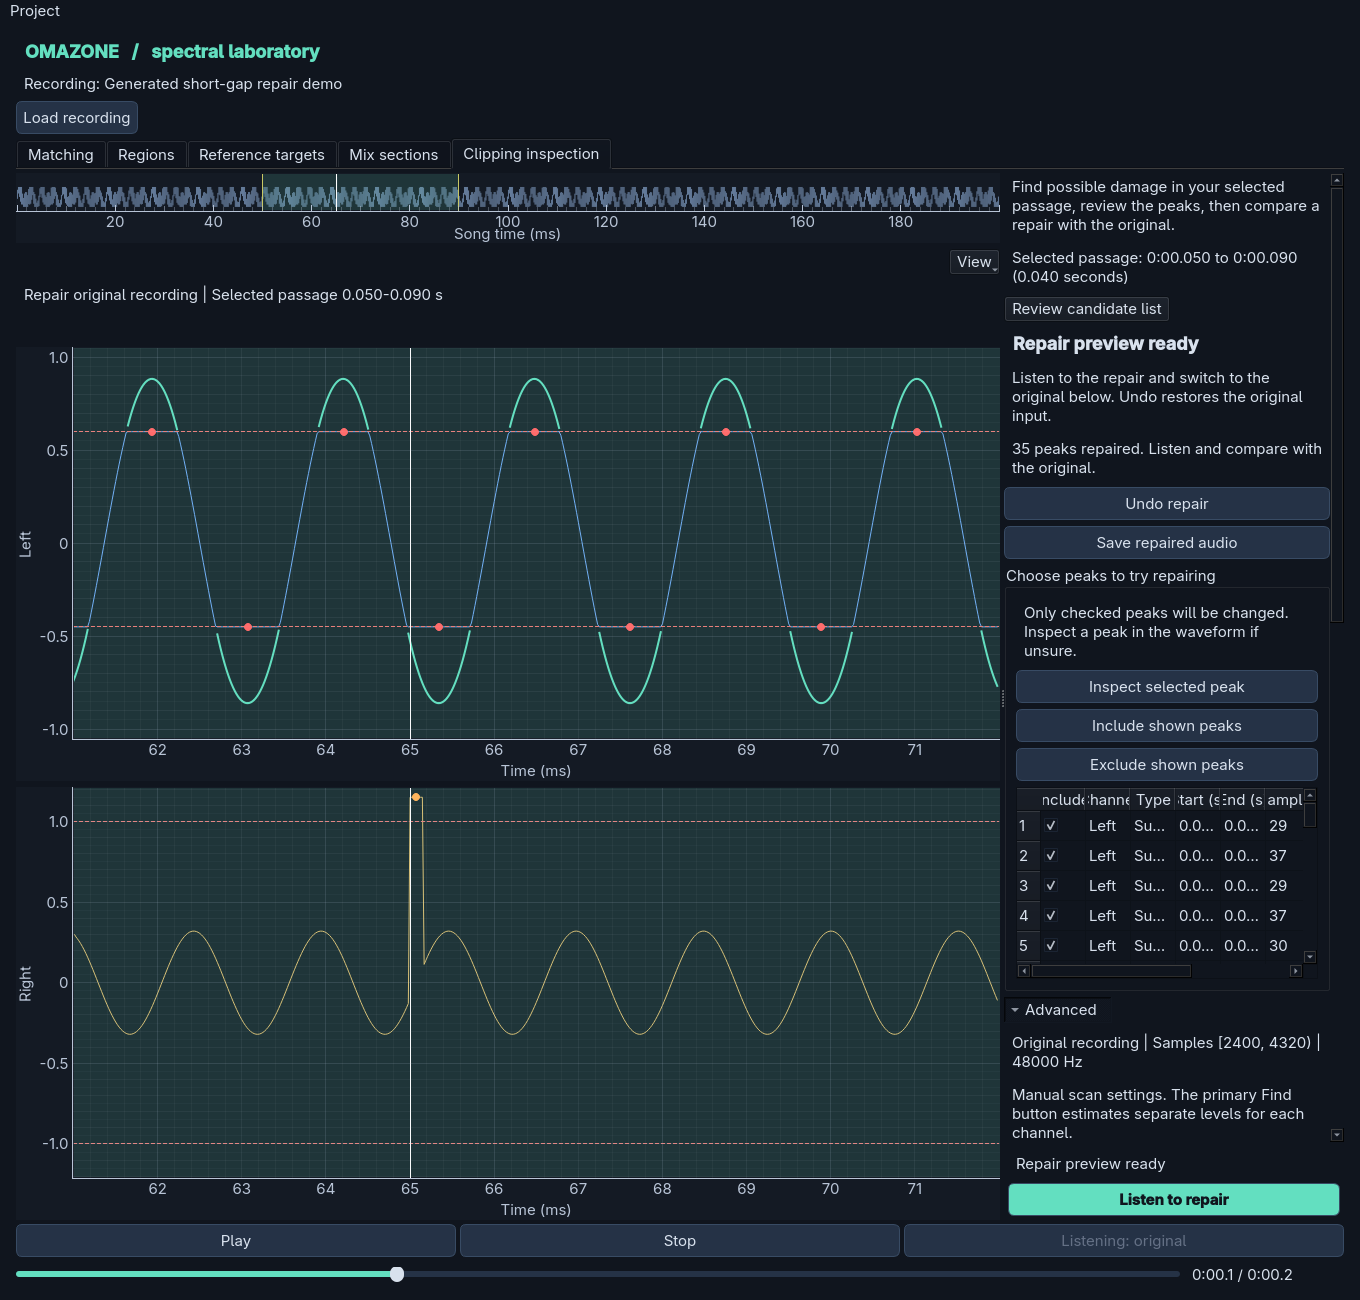
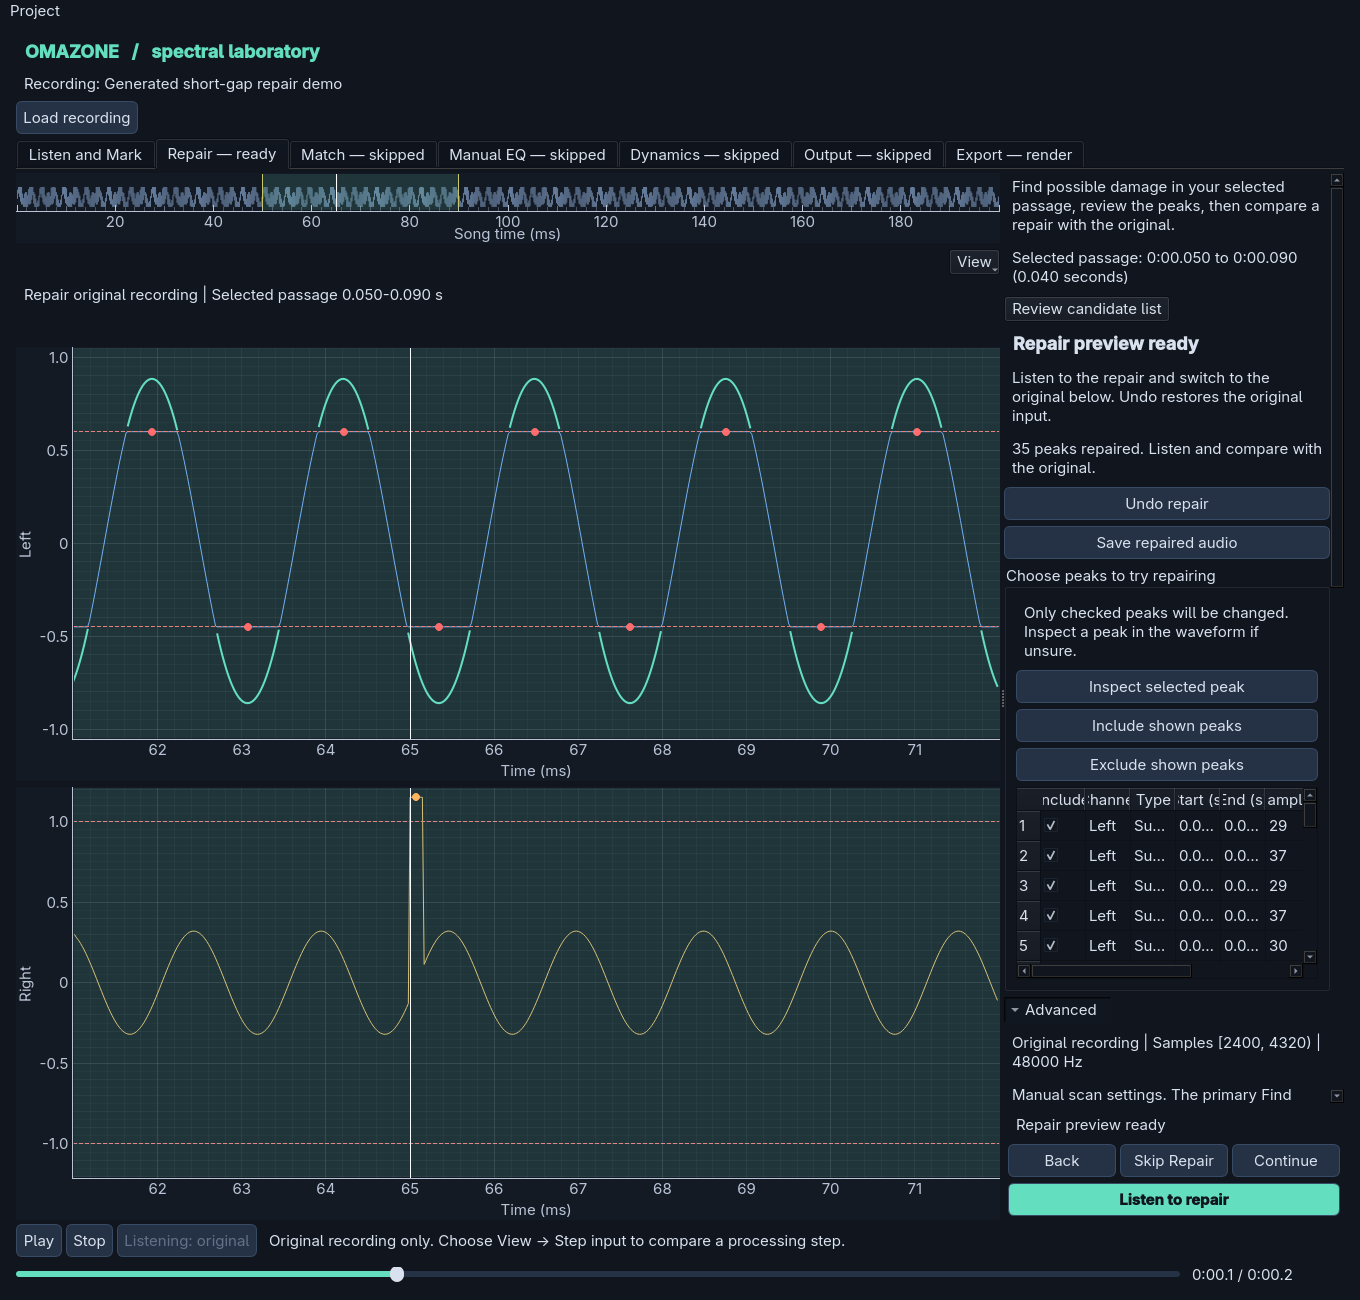
Document the workflow that shipped and redraw its screenshots
Every screenshot was still the pre-consolidation interface, so the README
showed a tab layout the application no longer has. Regenerated them all
from the current build, which also picks up the step bar and its labels.

Adds the step-by-step walkthrough and a Deliver the file section, and
replaces the promise of guided navigation with what Export now does: it
lists each stage's state and offers a way to whatever is holding the
export up.

Six images were referenced by nothing and generated by no script, so they
are gone rather than quietly bit-rotted.

diff --git a/README.md b/README.md
@@ -37,12 +37,17 @@ developers, and people who enjoy building audio interfaces are welcome.
 - Stereo-linked broadband compression with peak/RMS detection, timed gain reduction and step A/B.
 - Explicit output gain, original/pre-output/final sample peaks, and output-only A/B.
 - Cached repair/matching/EQ/compression/output prefixes rendered from the original and saved recipe.
+- A guided seven-step workflow, `Listen and Mark`, `Repair`, `Match`, `Manual EQ`,
+  `Dynamics`, `Output`, `Export`, with Back/Continue/Skip and a status label on
+  every step.
+- One comparison contract for every stage, so A/B always means "before/after
+  this step" rather than original versus the whole chain.
+- Unsaved-work prompts before any destructive action, and an Export review that
+  routes you to whichever stage is holding up delivery.
 
-The next priority is workflow consolidation: correct stage comparisons, protect
-unsaved work, unify status and comparison state, and add guided navigation and an
-Export step. LUFS, true-peak metering, and limiting follow. See the
-[approved workflow](docs/workflow.md) and [roadmap](roadmap.md) for implementation
-priorities and contribution tasks.
+The next priority is LUFS and true-peak metering, followed by a ceiling limiter.
+See the [approved workflow](docs/workflow.md) and [roadmap](roadmap.md) for
+implementation priorities and contribution tasks.
 
 ## Quick start
 
@@ -173,6 +178,35 @@ JSON files are ignored by Git.
 
 ## Try it on a song
 
+### Follow the seven steps
+
+Work runs left to right along the step bar at the top of the window:
+
+**Listen and Mark → Repair → Match → Manual EQ → Dynamics → Output → Export**
+
+Each step shows what it still needs, so you always know why a control is
+disabled. The labels are the step's current state:
+
+| Label | Meaning |
+| --- | --- |
+| `load` | No recording yet. Load a mix to begin. |
+| `relink` | The saved recording has moved. Point the project at it again. |
+| `repair` | Find and accept peaks to repair. |
+| `review` | Check this step's settings. |
+| `set up` | Configure this step. |
+| `analyse` | Analysis is pending; the numbers will arrive shortly. |
+| `render` | This step's audio has not been rendered since its last change. |
+| `ready` | Done; the result is cached and exportable. |
+| `skipped` | You passed this step without applying it. |
+
+**Back**, **Continue**, and **Skip** move between steps without discarding your
+choices. Repair, Match, Manual EQ, Dynamics, and output gain are optional, so
+**Skip** is a normal outcome rather than an error; reviewing Output is the only
+required step before Export. You can also click any step directly at any time,
+and selection, zoom, position, and loop survive the move.
+
+![The step bar showing each step's state above the persistent song viewer](docs/images/omazone-shared-sections.png)
+
 ### Keep the song in view
 
 Every tab follows the same plot-first layout: the audio stays large, task controls
@@ -181,7 +215,7 @@ menu and a single playback row replace duplicate toolbars. On narrow windows the
 inspector becomes a bounded lower panel; detailed controls scroll within it rather
 than reducing the plot area.
 
-| Tool | Inspector defaults | Optional details |
+| Step or view | Inspector defaults | Optional details |
 | --- | --- | --- |
 | Regions | Passage name and saved-region list | Precise times and sample counts |
 | Reference targets | Target name and short library list | Import/export/remove and precise bounds |
@@ -225,17 +259,18 @@ signal preference, panel sizes, and the existing selection/zoom/loop context.
 
 ![Clipping controls with the selected waveform still visible](docs/images/omazone-shared-clipping.png)
 
-This implements the shared visual context and processing chain, but not the full
-guided navigation. The next milestone brings repair, matching, manual EQ,
-compression, output gain, comparison, and export into one consistent workflow.
-See [the workflow consolidation specification](docs/workflow-consolidation.md).
+These are all now reachable through the guided workflow described below, and
+each one keeps the song in view. See
+[the workflow consolidation specification](docs/workflow-consolidation.md) for
+the design the implementation follows.
 
 ### First matching experiment
 
-Loading a mix or reference leaves you on your chosen tool and keeps the selected
-viewer mode. A new session starts on Matching with spectrum/filter plots. Regions,
-reference capture, section assignment, and repair start with waveforms. Each tool
-remembers an explicitly chosen view. On Matching, its compact **View** menu offers
+Loading a mix or reference leaves you on the step you are working in and keeps the
+selected viewer mode. A new session starts on **Listen and Mark**, so the song and
+its named passages are visible first. Regions, reference capture, section
+assignment, and repair start with waveforms. Each step remembers an explicitly
+chosen view. On Matching, its compact **View** menu offers
 Waveform/Spectrum/Both, original/input/output signals, and the optional overview.
 Looping and returning to whole-recording playback are also available in this menu.
 Matching starts with "Load a mix", then "Mix loaded. Add a reference",
@@ -551,7 +586,7 @@ manual makeup. See [the compressor design](docs/compressor.md).
 
 ## Check the final output
 
-The Output tab sits after compression. It shows three **sample peaks**: the
+The Output step sits after dynamics. It shows three **sample peaks**: the
 original recording, the signal before output gain, and the final float-WAV export.
 They are distinct measurements. Red means that stage has samples above 0 dBFS.
 
@@ -573,6 +608,25 @@ Attenuating floating-point samples above 0 dBFS can restore headroom. It cannot
 recover the missing shape of peaks flattened before import. Sample peaks do not
 detect peaks between samples, and the output gain does not limit them. See
 [output gain and peak handling](docs/output-gain.md).
+
+## Deliver the file
+
+The Export step closes the workflow. It writes the full-chain render, never a
+preview, and lists every stage with its current state, so the file you hand over
+matches the choices in the project. Stages you skipped are listed as skipped
+rather than quietly dropped.
+
+Export is also the honest place to discover unfinished work. If a stage still
+needs rendering or analysis, the review says which one and offers to take you
+there; it will not quietly export a stale or partial chain.
+
+1. Open **Export** and check the summary of what will be rendered.
+2. Click **Export WAV…** and choose where to write the file.
+3. Reopen the exported file if you want to confirm it against the original.
+
+Export writes 32-bit floating-point WAV from the recipe, so reopening the
+project later re-renders rather than reusing a baked intermediate. See
+[the workflow specification](docs/workflow.md) for the full journey.
 
 ## Current limitations
 

diff --git a/roadmap.md b/roadmap.md
@@ -47,19 +47,21 @@ optional View action and a persistent seek/time display. See
 
 ## Next development milestones
 
-1. **Workflow consolidation, #25/#27.** Make the implemented repair, matching,
-   manual EQ, compression, output, comparison, and export features behave as one
-   guided application. First correct visible stage pairs and protect unsaved work;
-   then consolidate status/comparison state, add navigation, and finish the Export
-   step. See [the workflow specification](docs/workflow-consolidation.md).
-2. **Output measurements, #9/#44.** Add integrated loudness with tested silence
+1. **Output measurements, #9/#44.** Add integrated loudness with tested silence
    and short-audio handling, then separately calibrated oversampled true peaks.
    Preview loudness matching must never change export gain.
-3. **Final peak control, #45.** Add a modest final limiter only after loudness and
+2. **Final peak control, #45.** Add a modest final limiter only after loudness and
    true-peak measurements are clear.
-4. **Advanced dynamics, #8/#46.** Build a single downward dynamic-EQ band or a
+3. **Advanced dynamics, #8/#46.** Build a single downward dynamic-EQ band or a
    three-band compressor from the tested broadband detector. Verify crossover
    recombination before expanding multiband processing.
+
+Workflow consolidation (#25/#27) is complete: repair, matching, manual EQ,
+compression, output, comparison, and export now behave as one guided application,
+with guarded unsaved work, shared status and comparison state, seven-step
+navigation, an Export step, and milestone acceptance journeys. The remaining
+measurement work attaches to that single contract. See
+[the workflow specification](docs/workflow-consolidation.md).
 
 Initial processing order is fixed. Advanced reordering, multiband dynamics, and
 real-time/plugin integration follow once this workflow is stable and understandable.

diff --git a/docs/workflow.md b/docs/workflow.md
@@ -1,11 +1,17 @@
 # Approved workflow and persistent song viewer
 
-This is the agreed product direction. The saved project model and persistent
-viewer are implemented for repair, matching, multi-band manual EQ, compression
-and explicit output gain. The fixed render chain retains prefixes, and later
-stages have step-specific A/B. The next milestone consolidates these features
-into one guided workflow before LUFS, true peaks, limiting, or more processors
-are added. See [the workflow consolidation specification](workflow-consolidation.md).
+This is the agreed product direction, and the guided workflow it describes is now
+implemented. The saved project model and persistent viewer cover repair,
+matching, multi-band manual EQ, compression and explicit output gain. The fixed
+render chain retains prefixes, and every stage has step-specific A/B. Navigation
+runs `Listen and Mark`, `Repair`, `Match`, `Manual EQ`, `Dynamics`, `Output`,
+`Export`, with each step labelled by what it still needs. See
+[the workflow consolidation specification](workflow-consolidation.md) for the
+design the implementation follows.
+
+LUFS, true peaks, and limiting are the next additions, deliberately after the
+consolidation landed so they attach to one comparison and status contract rather
+than several.
 
 ## User journey
 
@@ -118,8 +124,8 @@ needs-render, and needs-analysis states. A skipped effect is a normal outcome.
 ## Implementation sequence
 
 The project model, fixed chain, shared viewer, manual EQ, broadband compression,
-output gain, and most stage comparisons are implemented. Consolidate them in this
-order:
+and output gain were built first. They were then consolidated in this order, and
+each step has landed and been tested:
 
 1. Correct visible stage pairs and guard unsaved projects.
 2. Give render status and comparison state one source of truth each.
